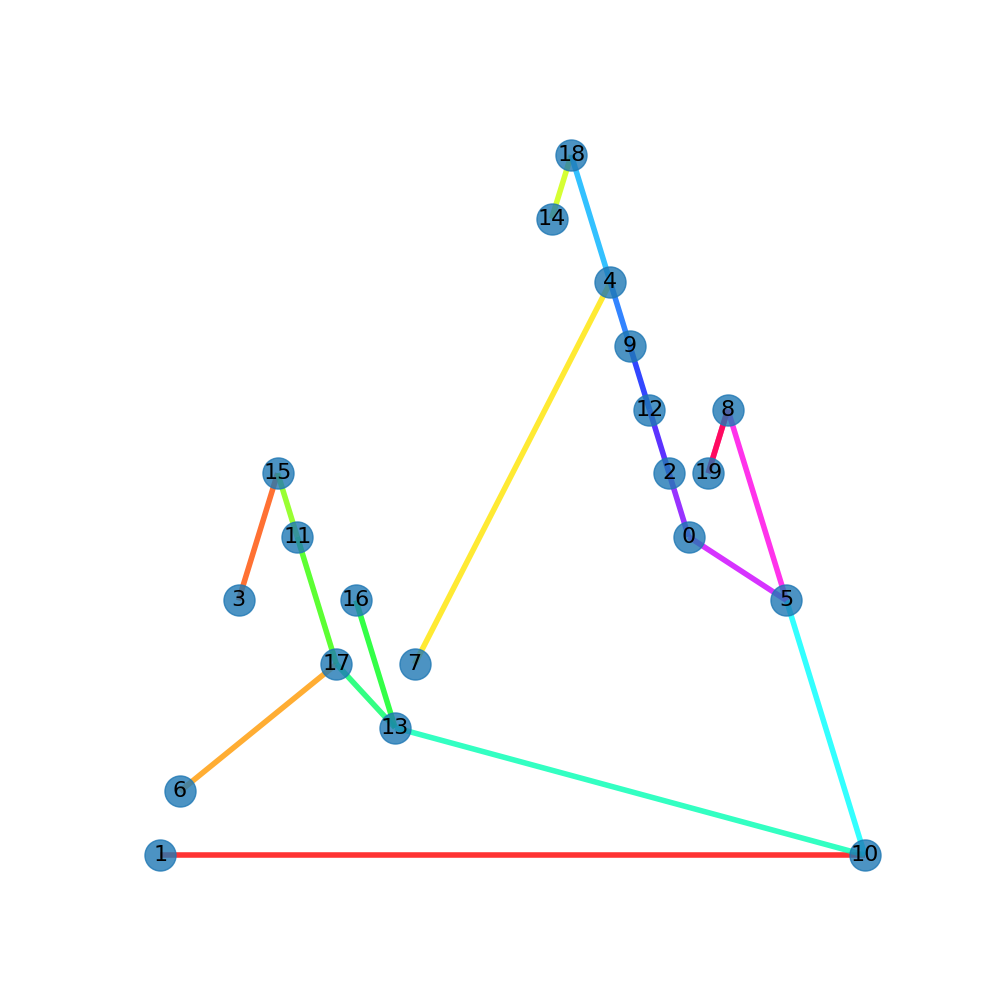
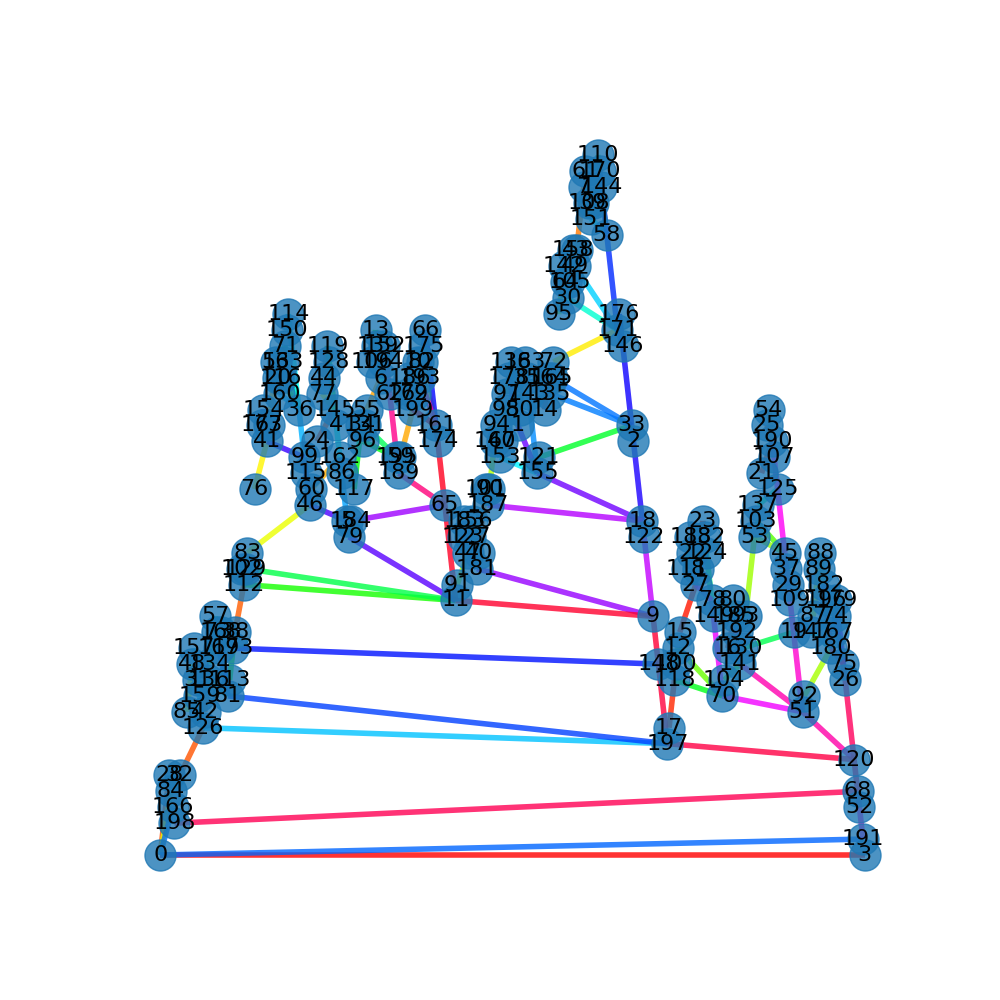
Some random tree data

Changed region(s): [[0.155, 0.124, 0.899, 0.868]]

diff --git a/refactored_testing.py b/refactored_testing.py
@@ -13,9 +13,9 @@ if __name__ == '__main__':
     f = Function(17, shift_data_file="f17_op.txt")
     print(f.function_to_call)
 
-    dim = 20
+    dim = 200
     outputfile.write("Dim: " + str(dim) + " Random Init\n")
-    random_iteration = [1, 4, 5, 10, 20, 200]
+    random_iteration = [5, 15, 30, 50, 100, 200, 600, 1000]
 
     total = 0
     im = RandomTree(f, dim, 100, 0.001, 0.000001)
@@ -30,29 +30,29 @@ if __name__ == '__main__':
         print("finished Random " + str(total))
         meet.save_architecture("MeetRandom/rand" + str(total))
 
-        factor_graphing(meet.factors, f"./MeetRandom/imgs/rand{total}/")
+        # factor_graphing(meet.factors, f"./MeetRandom/imgs/rand{total}/")
 
-    print("Starting MEET IM")
-    im = MEE(f, dim, 100, 0, 0.001, 0.000001, use_mic_value=True)
-    IM = im.get_IM()
-    print("finished IM")
-    meet = FactorArchitecture(dim=dim)
-    meet.MEET(IM)
-    print("finished MEET")
-    meet.save_architecture("MeetRandom/meet")
+    # print("Starting MEET IM")
+    # im = MEE(f, dim, 100, 0, 0.001, 0.000001, use_mic_value=True)
+    # IM = im.get_IM()
+    # print("finished IM")
+    # meet = FactorArchitecture(dim=dim)
+    # meet.MEET(IM)
+    # print("finished MEET")
+    # meet.save_architecture("MeetRandom/meet")
 
-    factor_graphing(meet.factors, "./MeetRandom/imgs/meet/")
+    # factor_graphing(meet.factors, "./MeetRandom/imgs/meet/")
 
     summary  = {}
 
-    fa = FactorArchitecture()
-    print("FEA MEET")
-    fa.load_architecture("MeetRandom/meet")
-    fea = FEA(f, 10, 10, 3, fa, PSO)
-    fea.run()
-    outputfile.write(f"MEET, \t\t{fea.global_fitness}\n")
-    print(fea.global_fitness)
-    summary['MEET'] = fea.global_fitness
+    # fa = FactorArchitecture()
+    # print("FEA MEET")
+    # fa.load_architecture("MeetRandom/meet")
+    # fea = FEA(f, 10, 10, 3, fa, PSO)
+    # fea.run()
+    # outputfile.write(f"MEET, \t\t{fea.global_fitness}\n")
+    # print(fea.global_fitness)
+    # summary['MEET'] = fea.global_fitness
 
     total = 0
     for it in random_iteration:

diff --git a/refactoring/utilities/varinteraction.py b/refactoring/utilities/varinteraction.py
@@ -58,7 +58,7 @@ class MEE(object):
                 mine.compute_score(de, x_j)
                 mic = mine.mic()
                 if self.use_mic_value:
-                    print(mic, end=", ")
+                    # print(mic, end=", ")
                     self.IM[i, j] = mic
                 elif not self.use_mic_value and mic > self.mic_thresh:  # threshold <--------
                     self.IM[i, j] = 1
@@ -125,7 +125,6 @@ class RandomTree(object):
             node2 = choice(list(comp2))  # generate random end node
 
             interact = self.compute_interaction(node1, node2)
-            print(f"Interaction: {interact}")
             summary += f"\t|\t{remove[2]} --> {interact} "
             if interact > remove[2]:  # if the new random edge is more expensive then the previous one, add it
                 self.T.add_edge(node1, node2, weight=interact)
@@ -170,7 +169,7 @@ class RandomTree(object):
         mine.compute_score(de, x_j)
         mic = mine.mic()
         self.IM[i, j] = mic
-        print(f"Mic: {mic}")
+        self.IM[j, i] = mic
         return mic
 
 
